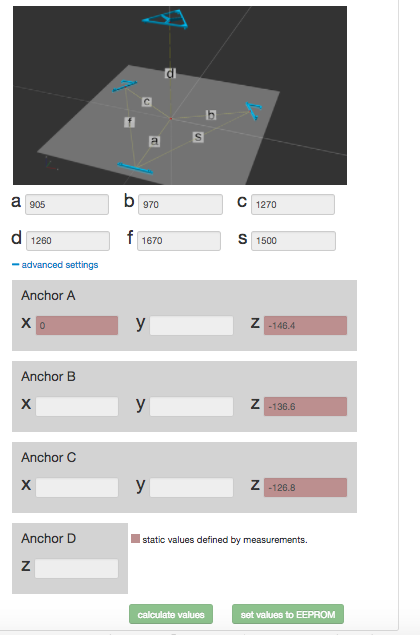
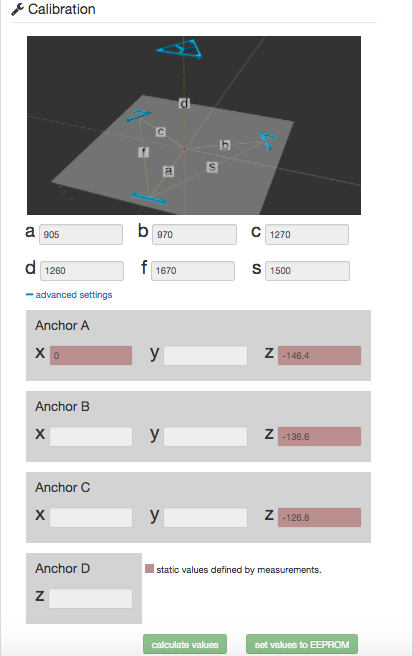
replaced screenshots

diff --git a/README.md b/README.md
@@ -12,18 +12,20 @@ or manually using this URL:
 
 ## Configuration
 
-Simple:
-
-![Screenshot of Hangprinter Octoprin Plugin](screenshot.jpg?raw=true "Screenshot of Hangprinter Octoprin Plugin]")
-
-Advanced:
-
-![Screenshot of Hangprinter Octoprin Plugin](screenshot_adv.jpg?raw=true "Screenshot of Hangprinter Octoprin Plugin]")
-
 The controls can be used to unwind all gears seperatly. The bottom form can be used to enter the
 measurements for the hangprinter setup. By pressing the "Set Calibration Values" Button, all values
 are calculated and stored in the EEPROM of the printer. Keep in mind that EEPROM option is not
 activated in the Hangprinter Marlin Firmware by default. You need to enable this Option.
 
 Advanced Mode can be used to check the calculations and set calculation values manually.
+
+
+
+Simple view:
+
+![Screenshot of Hangprinter Octoprin Plugin](screenshot.jpg?raw=true "Screenshot of Hangprinter Octoprin Plugin]")
+
+Advanced view:
+
+![Screenshot of Hangprinter Octoprin Plugin](screenshot_adv.jpg?raw=true "Screenshot of Hangprinter Octoprin Plugin]")
 
